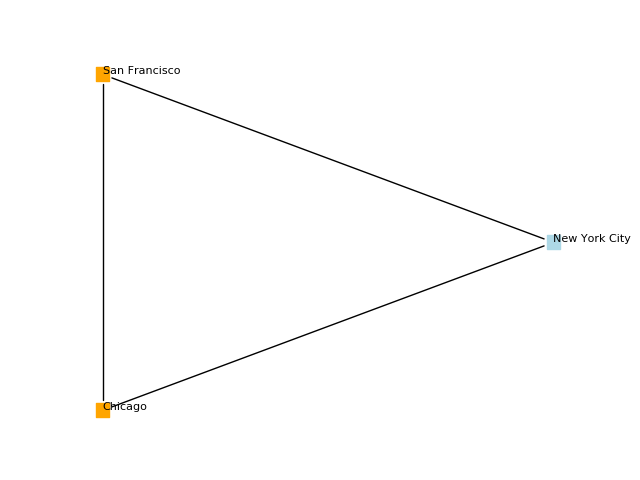
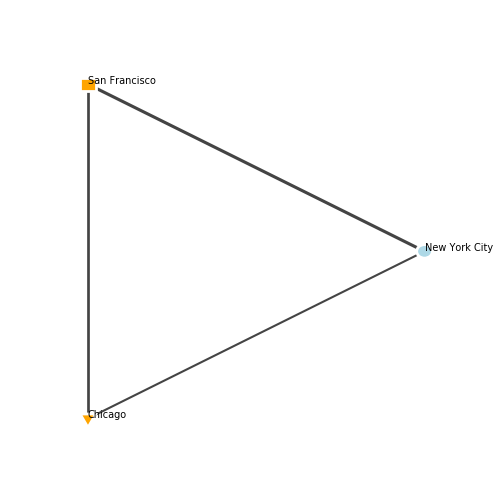
Update tutorial for develop branch

diff --git a/doc/source/tutorial/quickstart.rst b/doc/source/tutorial/quickstart.rst
@@ -26,24 +26,20 @@ This is a short condensed segment aimed at those who want a very quick and dirty
     g.es[2]["distance"] = 1180
 
     # Plot in matplotlib
-    fig, ax = plt.subplots()
+    fig, ax = plt.subplots(figsize=(5,5))
     ig.plot(
         g,
         target=ax,
         layout=g.layout("circle"), # print nodes in a circular layout
-        vertex_size=10,
-        vertex_color=["lightblue", "orange", "orange"],
-        vertex_shape="s", # square
+        vertex_size=0.07, # set vertex_size of all vertices at once
+        vertex_color=["lightblue", "orange", "orange"], # set colours individually
+        vertex_frame_color=["white", "white", "white"],
+        vertex_frame_width=2.0,
+        vertex_shape=["circle", "rectangle", "triangle-down"],
         vertex_label=g.vs["name"],
-        vertex_label_size=8,
+        vertex_label_size=7.0,
+        edge_width=[1.2+dist/4000.0 for dist in g.es["distance"]], # longer distances = thicker edges
     )
-    # Remove the axes borders
-    ax.spines['top'].set_visible(False)
-    ax.spines['right'].set_visible(False)
-    ax.spines['bottom'].set_visible(False)
-    ax.spines['left'].set_visible(False)
-    ax.get_xaxis().set_ticks([])
-    ax.get_yaxis().set_ticks([])
 
     plt.show()
 
@@ -56,7 +52,7 @@ This is a short condensed segment aimed at those who want a very quick and dirty
     g.save("america.gml")
     g = ig.load("america.gml")
 
-... and here is the graph generated by the code
+... and here is the graph generated by the code:
 
 .. figure:: ./figures/america.png
    :alt: The visual representation of our city network
